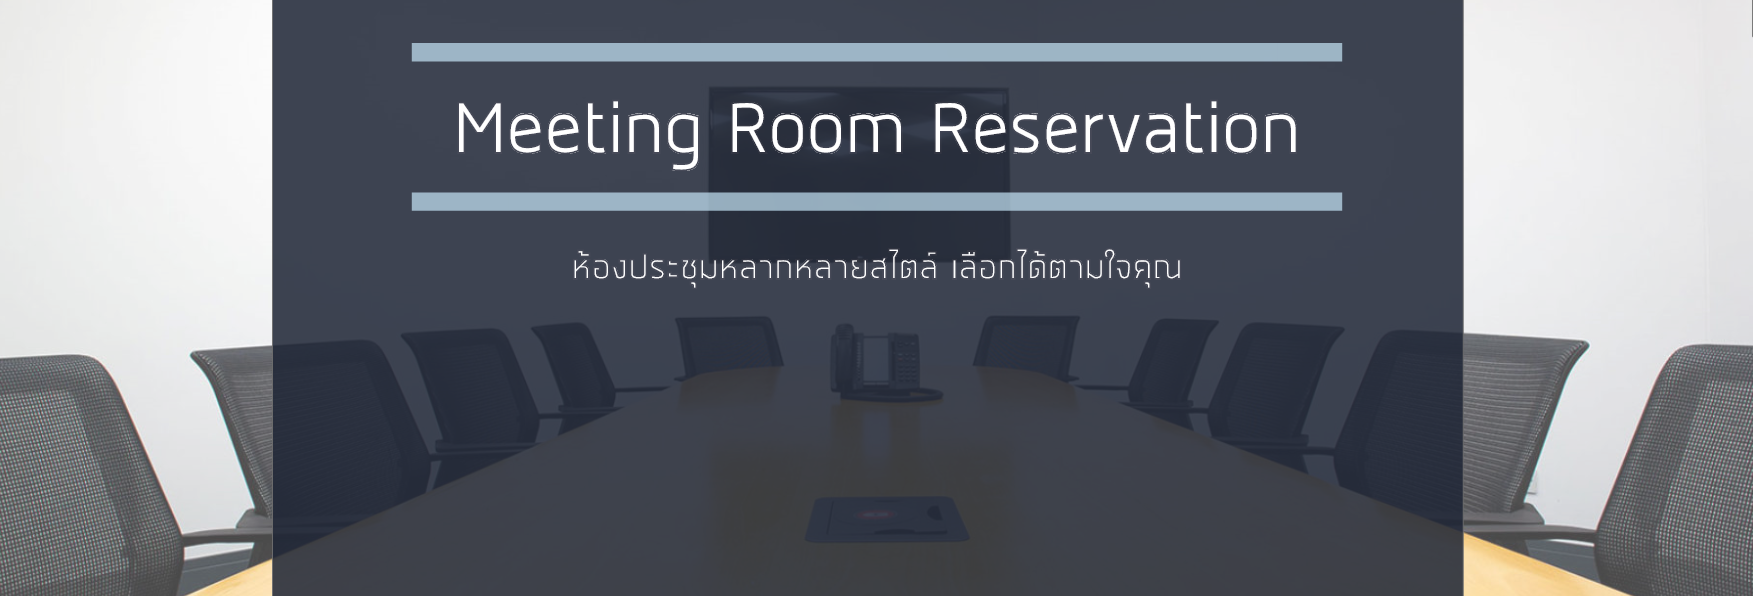
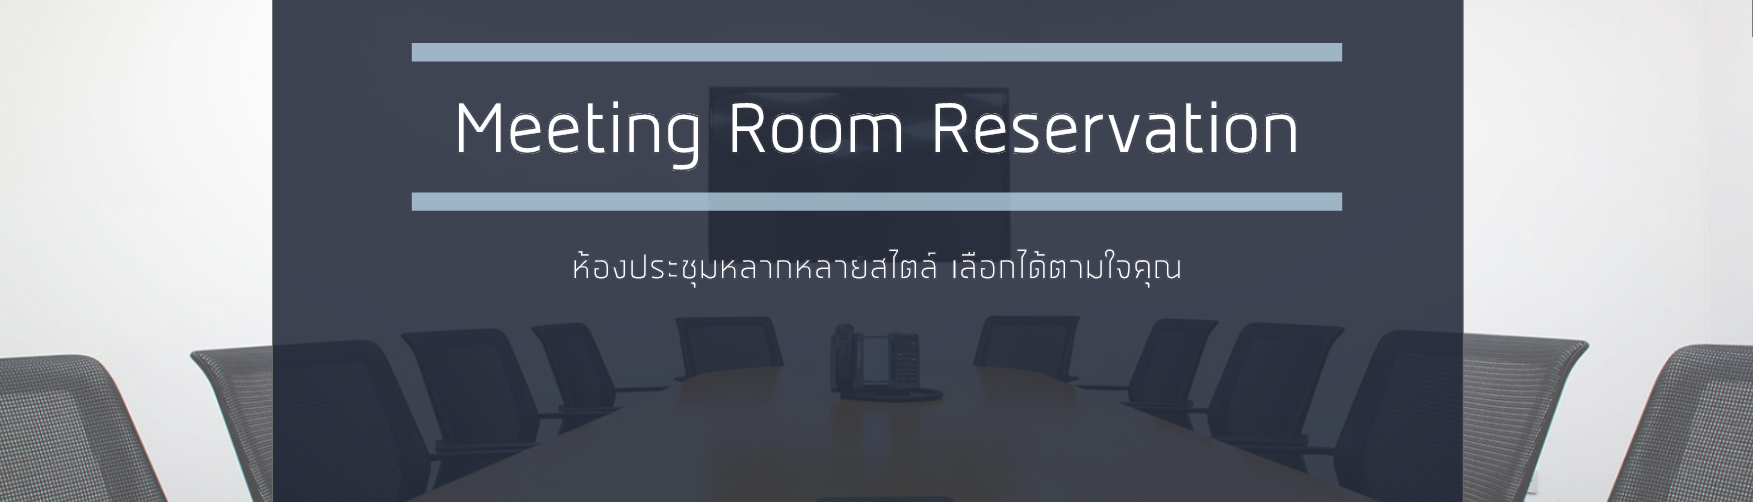
hall

diff --git a/hallreservation.html b/hallreservation.html
@@ -37,32 +37,61 @@
       </div>
   </div>
 
-  <div class="container-fluid img_3">
-    <div class="container text-center top_pad_1">
-        <form>
-            <div class="row justify-content-md-center align-items-center">
-                <div class="col-auto">
-                    <b><label for="checkin">CHECK IN</label></b>
-                    <input type="date" id="checkin">
+    <div class="container-fluid img_3">
+        <div class="container text-center top_pad_1 width_1">
+            <form>
+                <div class="row justify-content-md-center align-items-center">
+                    <div class="col">
+                        <b><label for="checkin">CHECK IN</label></b>
+                        <input type="date" id="checkin">
+                    </div>
+                    <div class="col">
+                        <b><label for="time">TIME</label></b>
+                        <select id="time" class="p-1">
+                        <option>08.00-10.00</option>
+                        <option>10.00-12.00</option>
+                        <option>12.00-14.00</option>
+                        <option>14.00-16.00</option>
+                        <option>16.00-18.00</option>
+                        <option>18.00-20.00</option>
+                        </select>
+                    </div>
                 </div>
-                <div class="col-auto">
-                    <b><label for="time">TIME</label></b>
-                    <select id="time" class="p-1">
-                      <option>08.00-10.00</option>
-                      <option>10.00-12.00</option>
-                      <option>12.00-14.00</option>
-                      <option>14.00-16.00</option>
-                      <option>16.00-18.00</option>
-                      <option>18.00-20.00</option>
-                    </select>
-                </div>
-                <div class="col-auto">
+                <div class="col-auto p-4">
                     <button type="submit" class="btn btn-light">SEARCH</button>
                 </div>
-            </div>
-        </form>
+            </form>
+        </div>
     </div>
-</div>
+
+    <div class="alert back_color_green1">
+        <h1>Small Meeting Room</h1>
+    </div>
+
+    <div class="container-fluid no-padding">
+        <img src="image/hallre1.jpg" alt="" width="100%">
+    </div>
+
+    <div class="alert back_color_green2">
+        <h1>Medium Meeting Room</h1>
+    </div>
+
+    <div class="container-fluid no-padding bottom_height">
+        <img src="image/hallre2.jpg" alt="" width="100%">
+    </div>
+
+    <div class="alert back_color_green3">
+        <h1>Large Meeting Room</h1>
+    </div>
+
+    <div class="container-fluid no-padding bottom_height">
+        <img src="image/hallre3.jpg" alt="" width="100%">
+    </div>
+
+    <div class="container-fluid text-center bottom_page padding_top">
+        <h6>Copyright 2020 Poginity Ltd. All Rights Reserved.</h6>
+        <h6>POGINITY Hotel. นาจอมเทียน, พัทยา (คลิ๊กเพื่อดูแผนที่) 095-156-2654 Pogihotel@gmail.com</h6>
+    </div>
 
 
     <!-- Optional JavaScript; choose one of the two! -->

diff --git a/home.css b/home.css
@@ -101,7 +101,7 @@
 .img_3 {
     background-image: url(image/hallreservation.png);
     background-size: cover;
-    height: 70vh;
+    height: 60vh;
     background-position: center;
 }
 .back_select {
@@ -131,4 +131,35 @@
 .c {
     text-decoration-line: underline;
     text-decoration-style: double;
-  }
+}
+
+.width_1 {
+    width: 40%;
+}
+
+.back_color_green1 {
+    background-color: rgb(186, 206, 113);
+    color: white;
+    margin-top: 50px;
+    padding-top: 30px;
+    padding-bottom: 30px;
+    margin-bottom: 50px;
+}
+
+.back_color_green2 {
+    background-color: rgb(90, 119, 67);
+    color: white;
+    margin-top: 50px;
+    padding-top: 30px;
+    padding-bottom: 30px;
+    margin-bottom: 50px;
+}
+
+.back_color_green3 {
+    background-color: rgb(31, 49, 23);
+    color: white;
+    margin-top: 50px;
+    padding-top: 30px;
+    padding-bottom: 30px;
+    margin-bottom: 50px;
+}
